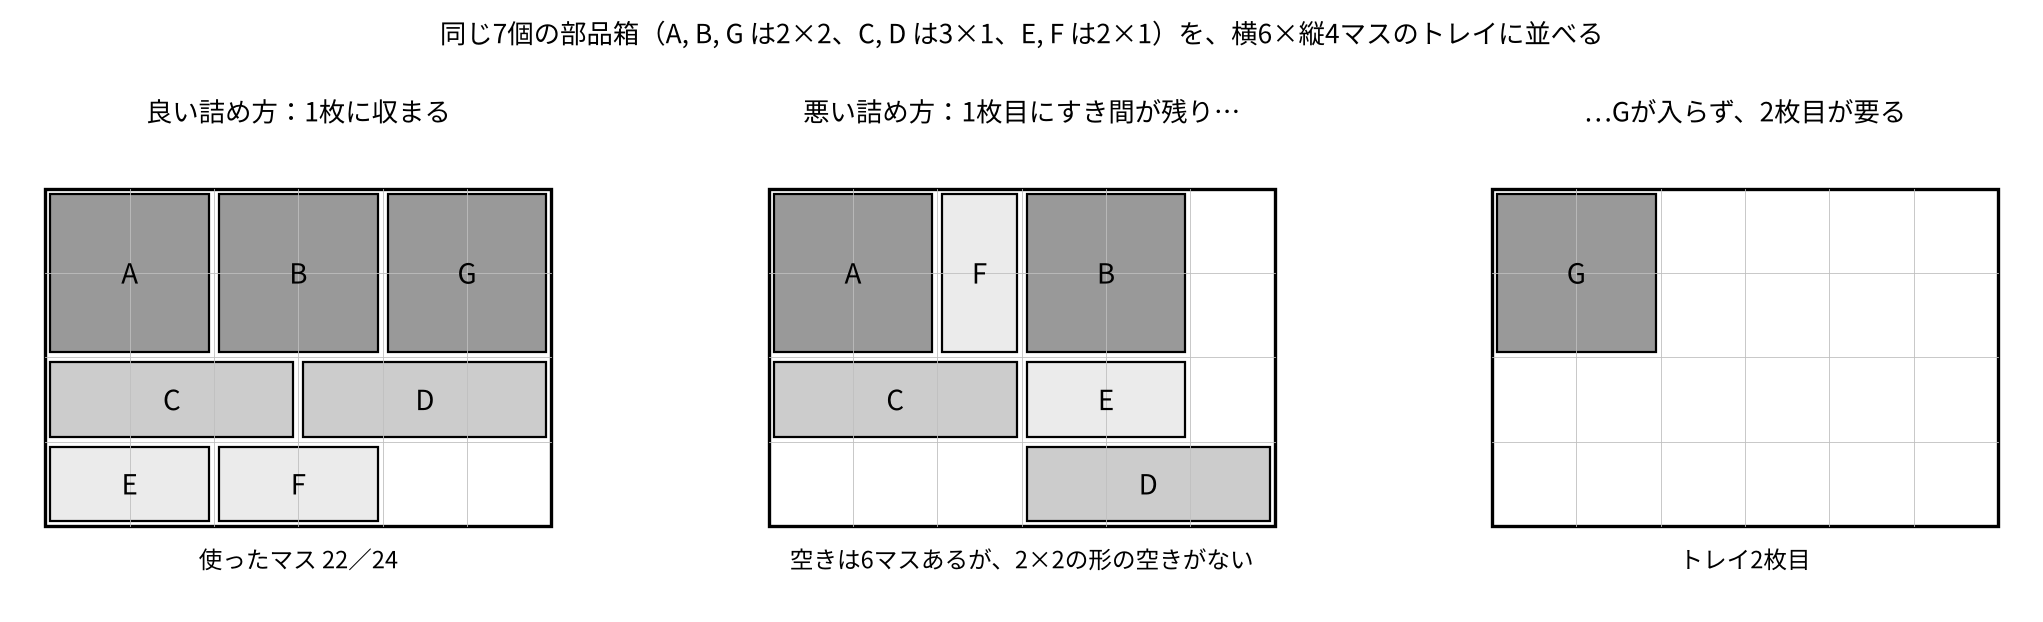
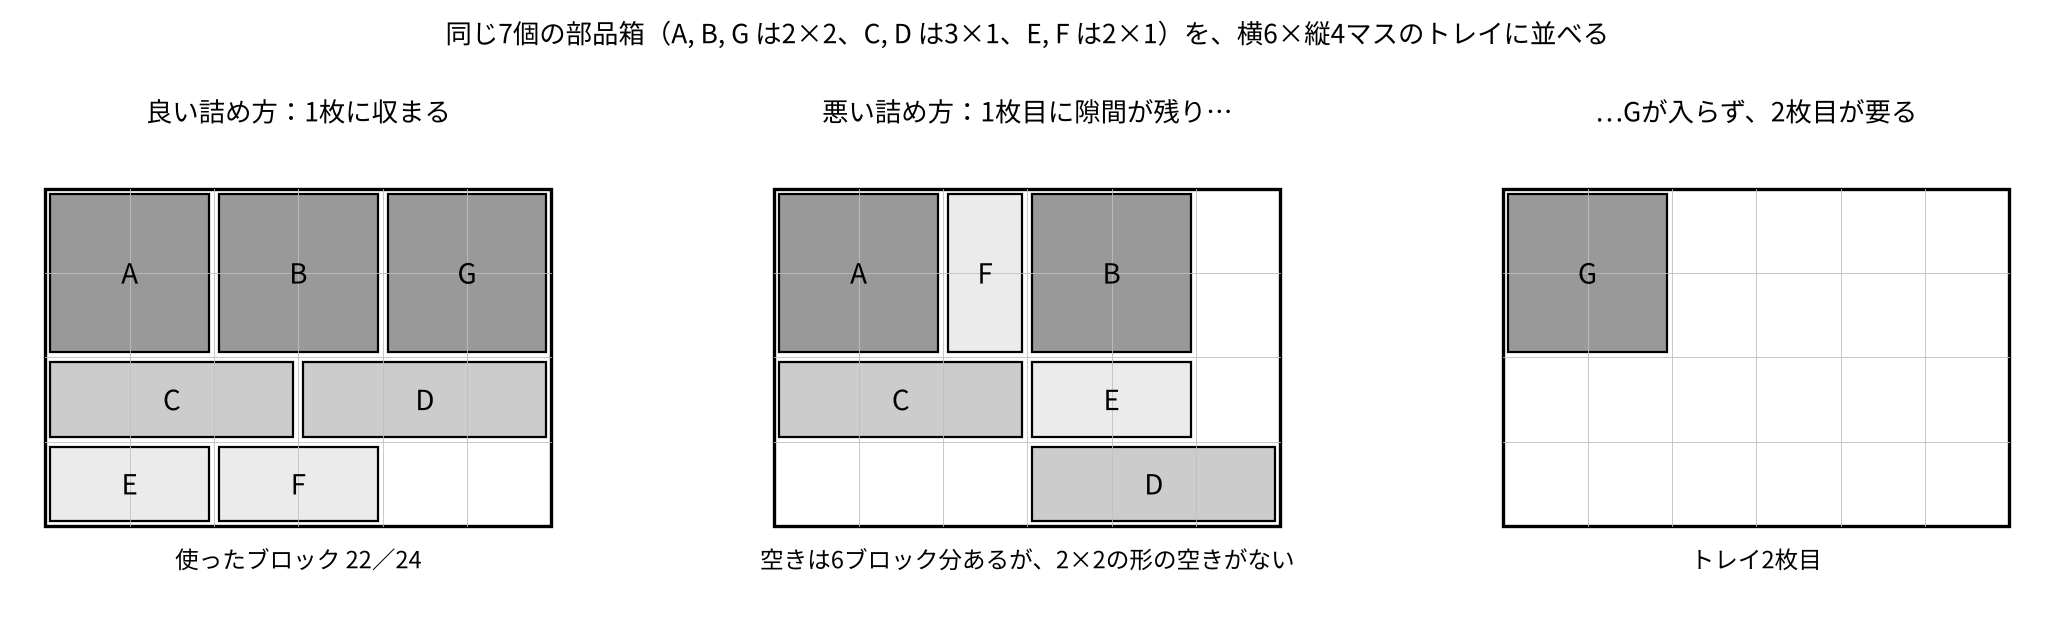
表記をそろえる：工程の分断／広がり／読み始めの逆転、読み順の一致率、面積はブロック、隙間・下限。部品合計608点。run_all を読みやすく整理
Claude-Session: https://claude.ai/code/session_015ijjeCwV7qRARbxqxFA8nM

diff --git a/scripts/ch2_figures.py b/scripts/ch2_figures.py
@@ -122,7 +122,7 @@ def fig2_3():
     shade = {"A": "0.6", "B": "0.6", "G": "0.6", "C": "0.8", "D": "0.8", "E": "0.92", "F": "0.92"}
     fig, axes = plt.subplots(1, 3, figsize=(11, 3.0), gridspec_kw=dict(width_ratios=[1, 1, 1]))
     panels = [(axes[0], GOOD, "良い詰め方：1枚に収まる"),
-              (axes[1], BAD1, "悪い詰め方：1枚目にすき間が残り…"),
+              (axes[1], BAD1, "悪い詰め方：1枚目に隙間が残り…"),
               (axes[2], BAD2, "…Gが入らず、2枚目が要る")]
     for ax, layout, title in panels:
         ax.set_aspect("equal")
@@ -134,8 +134,8 @@ def fig2_3():
         ax.set_xlim(-0.3, 6.3)
         ax.set_ylim(-0.9, 4.6)
         ax.set_title(title, fontsize=9.5)
-    axes[0].text(3, -0.5, "使ったマス 22／24", ha="center", fontsize=8.5)
-    axes[1].text(3, -0.5, "空きは6マスあるが、2×2の形の空きがない", ha="center", fontsize=8.5)
+    axes[0].text(3, -0.5, "使ったブロック 22／24", ha="center", fontsize=8.5)
+    axes[1].text(3, -0.5, "空きは6ブロック分あるが、2×2の形の空きがない", ha="center", fontsize=8.5)
     axes[2].text(3, -0.5, "トレイ2枚目", ha="center", fontsize=8.5)
     fig.suptitle("同じ7個の部品箱（A, B, G は2×2、C, D は3×1、E, F は2×1）を、横6×縦4マスのトレイに並べる",
                  fontsize=9.5, y=1.02)
@@ -150,7 +150,7 @@ def fig2_4():
     ax.set_ylim(0, 5.6)
     ax.set_axis_off()
     rbox(ax, 3.3, 4.6, 3.4, 0.8, "長方形を、重ならずに並べる", fc="0.85", fs=10, bold=True)
-    rbox(ax, 0.4, 3.0, 3.6, 0.9, "枚数を減らす系統\n（すき間なく詰める）", fs=9.5)
+    rbox(ax, 0.4, 3.0, 3.6, 0.9, "枚数を減らす系統\n（隙間なく詰める）", fs=9.5)
     rbox(ax, 6.0, 3.0, 3.6, 0.9, "近くに置く系統\n（関係の深いものを近くに）", fs=9.5)
     arrow(ax, 4.4, 4.6, 2.4, 3.92)
     arrow(ax, 5.6, 4.6, 7.6, 3.92)
@@ -184,7 +184,7 @@ def fig2_5():
             label=f"横{small[0]['tray'].split('x')[0]}×縦{small[0]['tray'].split('x')[1]}マスの小さなトレイ（全通り数えた実測）")
     xb, yb = [int(r["bins"]) for r in big], [float(r["layouts"]) for r in big]
     ax.plot(xb, yb, marker="s", color="black", lw=1, ls="--",
-            label="横16×縦8＝128マスのトレイ、1×1の部品箱だけ（計算）")
+            label="横16×縦8マス（128ブロック）のトレイ、1×1の部品箱だけ（計算）")
     for x, y in zip(xb, yb):
         e = int(f"{y:.0e}".split("e")[1])
         right = x == 10                                     # 左下の点は右下に書いて、説明の文字と重ねない

diff --git a/scripts/run_all.py b/scripts/run_all.py
@@ -1,6 +1,6 @@
 """本書の全結果（results/ と figures/）を作り直す。
 
-    python scripts/run_all.py           # 本の数値を再現（30〜40分）
+    python scripts/run_all.py           # 本の数値を再現（約30分）
     python scripts/run_all.py --quick   # 動作確認（数分）
 """
 import subprocess
@@ -8,17 +8,21 @@ import sys
 import os
 
 HERE = os.path.dirname(os.path.abspath(__file__))
-quick = ["--quick"] if "--quick" in sys.argv else []
-steps = [["check_env.py"], ["ch2_count.py", *([] if quick else ["--six"])], ["ch2_figures.py"], ["ch3_rule.py"], ["ch3_figures.py"], ["ch4_sizing.py"], ["ch4_figures.py"], ["ch4_excel.py"], ["ch5_layout.py", *quick]]
-if not quick:
-    steps.append(["scale_test.py"])
-steps.append(["ch5_figures.py"])
-steps.append(["ch1_figures.py"])   # 図1-5は第5章の配置を使う     # scale_test.csv がないときは、先に scale_test.py を実行する
-steps.append(["ch6_tradeoff.py", *quick])   # 第6章（20分前後。--quick なら数分）
-steps.append(["ch6_figures.py"])
-steps.append(["ch6_concept_figures.py"])
-steps.append(["ch7_check.py"])
-steps.append(["ch7_figures.py"])
+quick = "--quick" in sys.argv
+q = ["--quick"] if quick else []
+steps = [
+    ["check_env.py"],                              # 付録A：環境の確認
+    ["ch2_count.py", *([] if quick else ["--six"])], ["ch2_figures.py"],   # 第2章
+    ["ch3_rule.py"], ["ch3_figures.py"],           # 第3章
+    ["ch4_sizing.py"], ["ch4_figures.py"], ["ch4_excel.py"],               # 第4章
+    ["ch5_layout.py", *q],                         # 第5章
+    *([] if quick else [["scale_test.py"]]),       # 第5章5.8節（約8分）
+    ["ch5_figures.py"],
+    ["ch1_figures.py"],                            # 図1-5は第5章の配置を使う
+    ["ch6_tradeoff.py", *q],                       # 第6章（約20分。--quick なら数分）
+    ["ch6_figures.py"], ["ch6_concept_figures.py"],
+    ["ch7_check.py"], ["ch7_figures.py"],          # 第7章
+]
 for s in steps:
     print(f"\n=== {' '.join(s)} ===", flush=True)
     subprocess.run([sys.executable, os.path.join(HERE, s[0]), *s[1:]], check=True)

diff --git a/scripts/ch6_figures.py b/scripts/ch6_figures.py
@@ -79,7 +79,7 @@ def fig6_1():
     for ax, k in zip(axes, names):
         m = d["metrics"][k]
         draw_tray(ax, d["bins"], d["layouts"][k],
-                  title=f"{names[k]}　読み順との一致率 {m['order_match']:.0%}、広がり {m['avg_spread']:.2f}")
+                  title=f"{names[k]}　読み順の一致率 {m['order_match']:.0%}、広がり {m['avg_spread']:.2f}")
     fig.suptitle("SA-02の配置。記号は工程、色が濃いほど後の工程", fontsize=10)
     fig.tight_layout()
     save(fig, "fig6-1_sa02_three.png")
@@ -98,7 +98,7 @@ def fig6_2():
     for ax, (i, k) in zip(axes, enumerate(d["weights_sa02"])):
         r = m[k]
         draw_tray(ax, d["bins_sa02"], d["weights_sa02"][k],
-                  title=f"({'abc'[i]}) {k}　読み順との一致率 {float(r['order_match']):.0%}、広がり {float(r['avg_spread']):.2f}")
+                  title=f"({'abc'[i]}) {k}　読み順の一致率 {float(r['order_match']):.0%}、広がり {float(r['avg_spread']):.2f}")
     fig.suptitle("重みを3通りに変えた配置（SA-02、トレイ1枚）。記号は工程、色が濃いほど後の工程", fontsize=10)
     fig.tight_layout()
     save(fig, "fig6-2_weights_sa02.png")
@@ -117,7 +117,7 @@ def fig6_3():
             dy = 6 if r["weights"] == "読み順重視" else -10      # 近い点の文字が重ならないように
             ax.annotate(r["weights"], (x, y), textcoords="offset points", xytext=(8, dy), fontsize=8.5)
         ax.set_xlabel("まとまり（平均の広がり、マス）　← 小さいほどよい", fontsize=8.5)
-        ax.set_ylabel("読み順との一致率（%）　↑ 高いほどよい", fontsize=8.5)
+        ax.set_ylabel("読み順の一致率（%）　↑ 高いほどよい", fontsize=8.5)
         ax.set_xlim(*xlim)
         ax.set_ylim(*ylim)
         ax.grid(lw=0.3, color="0.8")

diff --git a/kitting/layout.py b/kitting/layout.py
@@ -156,7 +156,7 @@ class TrayModel:
         self.n_used = m.NewIntVar(1, n_trays, "n_used")
         m.AddMaxEquality(self.n_used, [self.v[b.id]["t"] + 1 for b in bins])
         total = sum(b.type.area for b in bins)
-        m.Add(self.n_used * W * H >= total)                       # 面積の下界
+        m.Add(self.n_used * W * H >= total)                       # 面積の下限
         if fix_trays is not None:
             m.Add(self.n_used == fix_trays)
 
@@ -175,10 +175,10 @@ class TrayModel:
             m.AddMinEquality(tmin, [a["t"] for a in vv])
             m.AddMaxEquality(tmax, [a["t"] for a in vv])
             tmin_[s], tmax_[s] = tmin, tmax
-            split = m.NewIntVar(0, n_trays - 1, f"split{s}")      # (a) トレイをまたぐ
+            split = m.NewIntVar(0, n_trays - 1, f"split{s}")      # (a) 工程の分断：トレイをまたぐ
             m.Add(split == tmax - tmin)
             terms.append(split_w * split)
-            xmin = m.NewIntVar(0, XMAX, f"xmin{s}")               # (b) 散らばり
+            xmin = m.NewIntVar(0, XMAX, f"xmin{s}")               # (b) 広がり
             xmax = m.NewIntVar(0, XMAX, f"xmax{s}")
             ymin = m.NewIntVar(0, H, f"ymin{s}")
             ymax = m.NewIntVar(0, H, f"ymax{s}")

diff --git a/scripts/ch5_figures.py b/scripts/ch5_figures.py
@@ -250,8 +250,8 @@ def fig5_10():
     with open(os.path.join(RESULTS, "ch5_metrics.csv"), encoding="utf-8") as f:
         rows = list(csv.DictReader(f))
     labels = ["①", "②", "③", "④"]
-    specs = [("トレイをまたぐ工程（/31）", "split_steps", "{:.0f}", "少ないほど良い"),
-             ("工程の散らばり（マス）", "avg_spread", "{:.1f}", "小さいほど良い"),
+    specs = [("工程の分断（/31）", "split_steps", "{:.0f}", "少ないほど良い"),
+             ("工程の広がり（マス）", "avg_spread", "{:.1f}", "小さいほど良い"),
              ("読み順の一致率（%）", "order_match", "{:.1f}", "高いほど良い"),
              ("トレイ間の移動（回）", "tray_switches", "{:.0f}", "少ないほど良い")]
     fig, axes = plt.subplots(1, 4, figsize=(10.4, 3.0))

diff --git a/scripts/ch6_tradeoff.py b/scripts/ch6_tradeoff.py
@@ -6,7 +6,7 @@
 実験1（6.2節、コード6-1）：罰則の重みを3通りに変えて、SA-10の配置がどう変わるか
 実験2（6.4節、コード6-2）：トレイ枚数の上限を4・5・6枚にして解く（ε制約法）。枚数と使いやすさの関係
 実験1b（6.2節）：同じ3通りの重みを、トレイに余裕のあるSA-02で試す（--sa02-weights でこれだけ実行）
-実験3（6.2節の補足）：SA-02で順序一致率が下がった問題を、罰則(d)を足して直す
+実験3（6.2節の補足）：SA-02で読み順の一致率が下がった問題を、罰則(d)を足して直す
 """
 import csv
 import json

diff --git a/scripts/ch4_figures.py b/scripts/ch4_figures.py
@@ -150,7 +150,7 @@ def fig4_7():
                 color="white" if lab == "16" else "black")
     a1.set_xlim(-0.2, TRAY_W + 0.2)
     a1.set_ylim(TRAY_H + 0.2, -0.2)
-    a1.set_title("(a) 1・4・8・16ブロックの部品箱はすき間なく並ぶ（数字はブロック数）", fontsize=8)
+    a1.set_title("(a) 1・4・8・16ブロックの部品箱は隙間なく並ぶ（数字はブロック数）", fontsize=8)
     # 右：8ブロック1個 ＝ 4ブロック1個＋1ブロック4個
     a2.add_patch(Rectangle((0, 0), 4, 2, fc="0.6", ec="black", lw=0.8))
     a2.text(2, 1, "8", ha="center", va="center", fontsize=9)

diff --git a/kitting/config.py b/kitting/config.py
@@ -7,7 +7,7 @@
 BLOCK_MM = 75                      # 1ブロックの一辺 [mm]
 TRAY_W, TRAY_H = 16, 8             # トレイの格子（横, 縦）[ブロック]
 TRAY_MM = (TRAY_W * BLOCK_MM, TRAY_H * BLOCK_MM)   # (1200, 600)
-WALL_MM = 10                       # 部品箱の外形と内寸の差（壁の厚み＋すき間）[mm]
+WALL_MM = 10                       # 部品箱の外形と内寸の差（壁の厚み＋隙間）[mm]
 
 # 部品箱寸法の候補（ブロック単位、横 >= 縦）。第4章ではこの中から K 種類を選ぶ。
 CANDIDATE_BINS = [

diff --git a/scripts/ch2_count.py b/scripts/ch2_count.py
@@ -51,7 +51,7 @@ def count_layouts(W, H, bins):
 
 
 def main():
-    W, H = 6, 4                                    # 小さなトレイ（24マス）
+    W, H = 6, 4                                    # 小さなトレイ（24ブロック）
     pattern = [(1, 1), (2, 1), (1, 1), (2, 2), (1, 1), (2, 1)]
     n_max = 6 if "--six" in sys.argv else 5
     rows = []

diff --git a/README.md b/README.md
@@ -70,7 +70,7 @@ Google Colab でも、最初のセルで `!pip install ortools==9.15.6755 pulp==
 
 `python scripts/run_all.py` の実行結果です。
 
-### 第4章：部品箱寸法（10種類の事前組立品、部品計589点）
+### 第4章：部品箱寸法（10種類の事前組立品、部品計608点）
 
 | 寸法の決め方 | 採用した部品箱（外形mm） | 全BOMの合計面積 | 共通トレイの面積 | どの部品箱にも入らない大物 |
 | --- | --- | --- | --- | --- |
@@ -83,18 +83,18 @@ Google Colab でも、最初のセルで `!pip install ortools==9.15.6755 pulp==
 
 第4章で選んだ4種類の部品箱に、各部品を必要面積が最小になるように入れたものを使います（`bins.assign_cheapest`）。
 
-| 配置方法 | トレイ枚数 | トレイをまたぐ工程 | 工程の散らばり | 順序一致率 | トレイ間の移動 | 罰則 | 計算時間 |
+| 配置方法 | トレイ枚数 | 工程の分断 | 工程の広がり | 読み順の一致率 | トレイ間の移動 | 罰則 | 計算時間 |
 | --- | --- | --- | --- | --- | --- | --- | --- |
 | ① サイズ順ルール | 4 | 20 / 31 | 14.5 | 62% | 45回 | — | 0.01秒 |
 | ② 枚数のみ最適化（CP-SAT） | 4 | 25 / 31 | 18.4 | 57% | 62回 | — | 8秒 |
 | ③ 作業順ルール | 4 | 1 / 31 | 9.9 | 99.8% | 3回 | 1,944 | 0.01秒 |
 | ④ 作業順の最適化（LNS） | 4 | 1 / 31 | 8.1 | 98% | 3回 | 1,594（−18%） | 約4分 |
 
-部品を使う工程は39工程のうち31工程です。トレイ4枚は面積の下界（406 ÷ 128 の切り上げ）と同じで、最小です。
+部品を使う工程は39工程のうち31工程です。トレイ4枚は面積の下限（406 ÷ 128 の切り上げ）と同じで、最小です。
 
 ### 第5章 5.8節：問題の大きさと計算時間（LNS 2周、`results/scale_test.csv`）
 
-部品箱20〜126個の10種類すべてで、作業順ルールに比べて罰則が10〜37%減りました。計算時間は5〜117秒です。
+部品箱20〜126個の10種類すべてで、作業順ルールに比べて罰則が11〜37%減りました。計算時間は5〜117秒です。
 
 ## ライセンス
 
